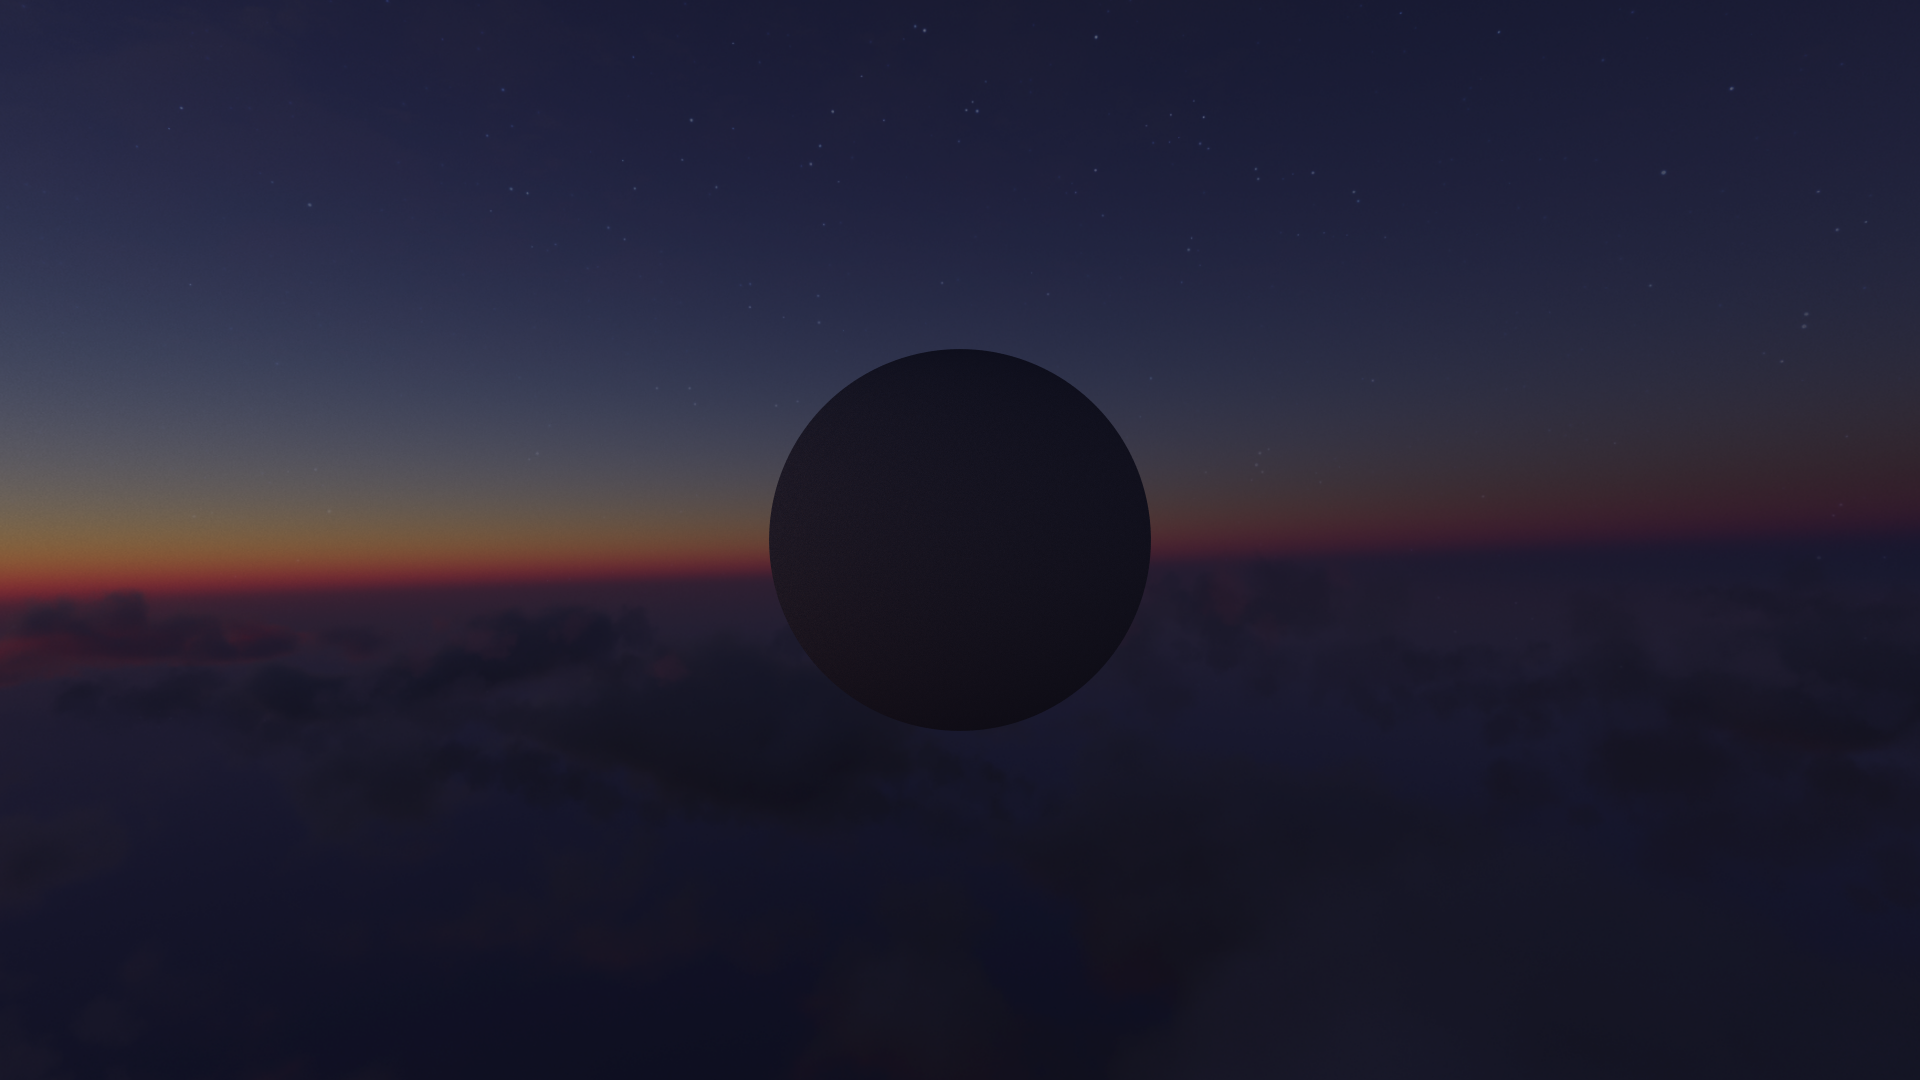
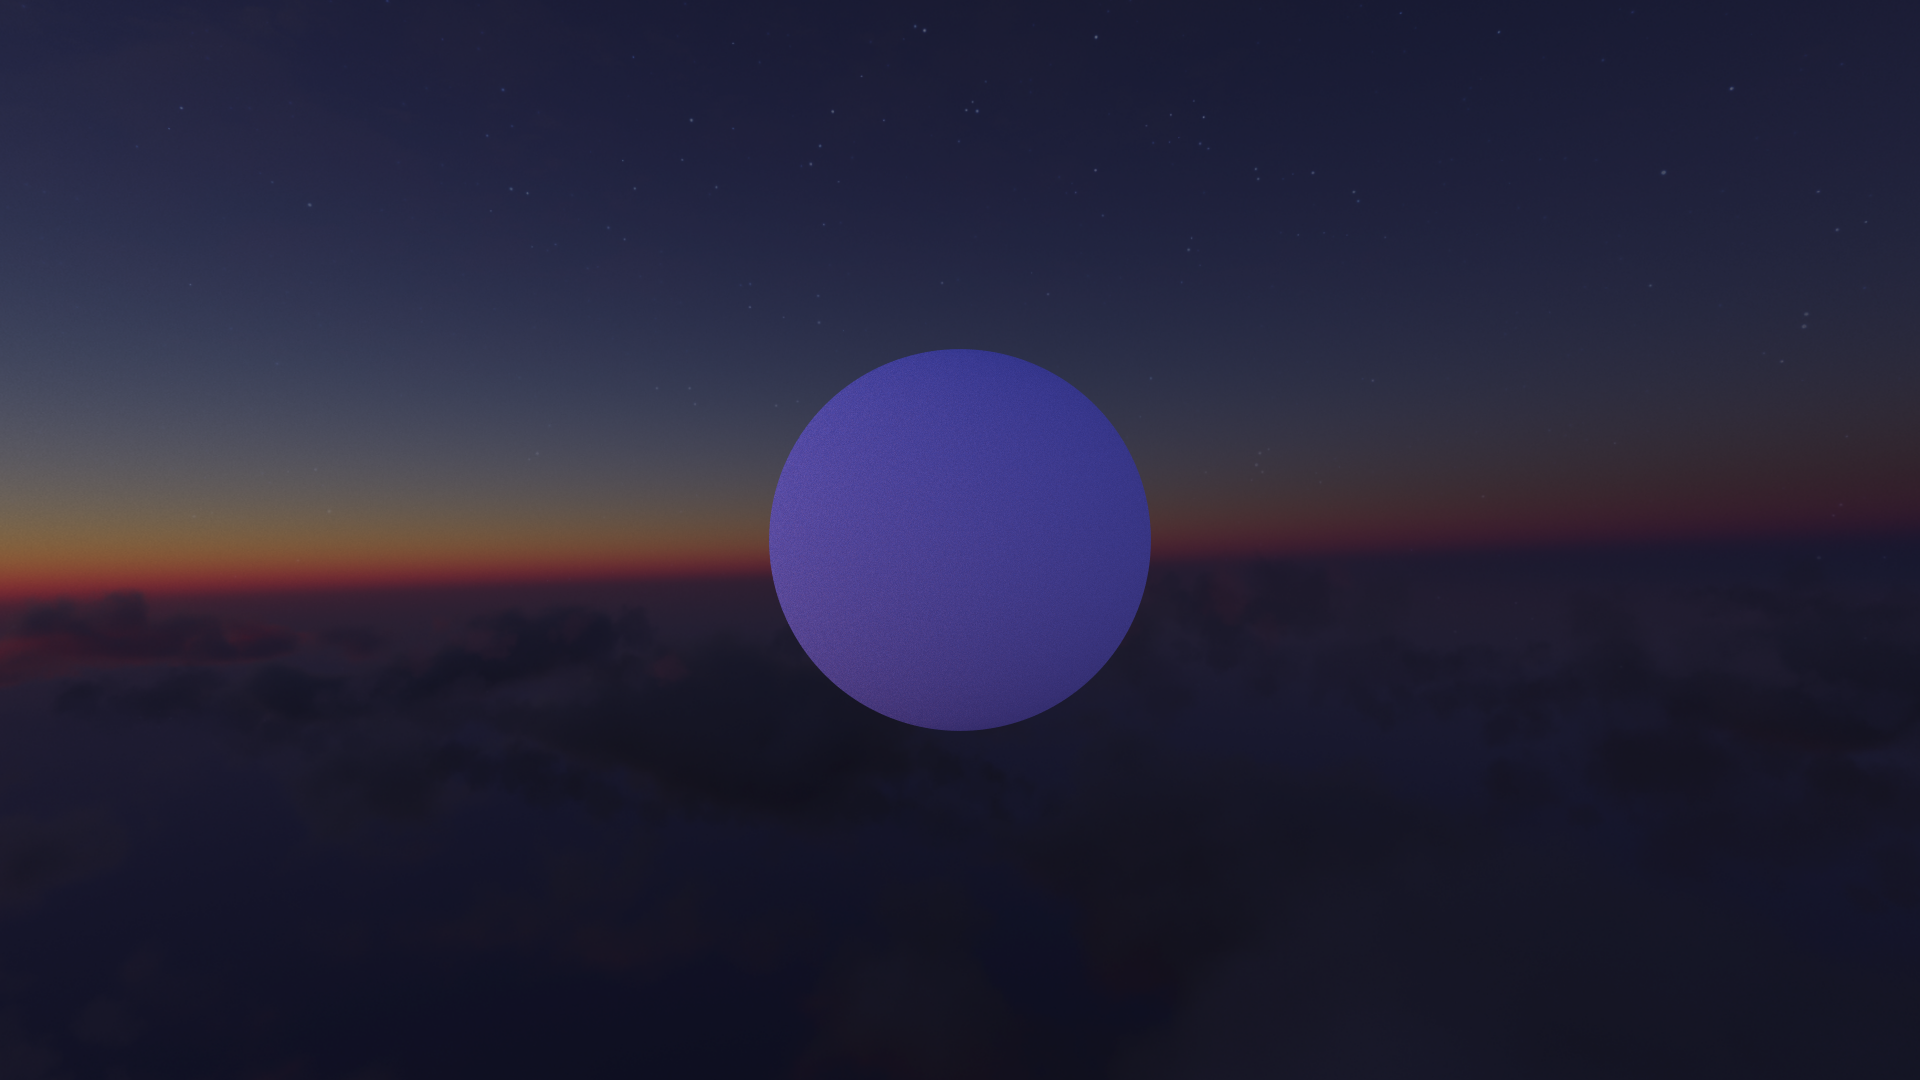
Fixed Enviornment Lighting and Texture Lighting. Add Skybox intensity option.

Changed region(s): [[0.375, 0.3056, 0.625, 0.6722]]

diff --git a/CPURayTracer/src/RayTracer.cpp b/CPURayTracer/src/RayTracer.cpp
@@ -92,10 +92,12 @@ Intersection RayTracer::FindIntersection(Scene* scene, const Ray& ray)
 }
 
 // Helper function for 'FindColor'
-vec3 ComputeColor(const vec3& direction, const vec3& normal, const vec3& halfvec, const vec3& color, const Material& material, const vec3& attenuation, const float intensity, const float distance)
+vec3 ComputeColor(const vec3& direction, const vec3& normal, const vec3& halfvec, const vec3& color, const Material& material, const vec2& uv, const vec3& attenuation, const float intensity, const float distance)
 {
 	float nDotL = dot(normal, direction);
 	vec3 lambert = material.diffuse * color * std::max(nDotL, 0.0f);
+	if (material.texture.HasImage())
+		lambert = material.texture.QueryTexture(uv.x, uv.y) * color * std::max(nDotL, 0.0f);
 
 	float nDotH = dot(normal, halfvec);
 	vec3 phong = material.specular * color * pow(std::max(nDotH, 0.0f), material.shininess);
@@ -119,8 +121,6 @@ vec3 RayTracer::FindColor(Scene* scene, const Intersection& intersection, int re
 	}
 
 	vec3 currentColor = intersection.material->ambient + intersection.material->emission;
-	if (intersection.material->texture.HasImage())
-		return intersection.material->texture.QueryTexture(intersection.uv.x, intersection.uv.y);
 
 	// Add color from the lights.
 	vec4 towardsRayOrigin = normalize(intersection.ray.GetPosition() - intersection.hitPos); // Vector to origin of ray cast. Needed for half vector.
@@ -136,7 +136,7 @@ vec3 RayTracer::FindColor(Scene* scene, const Intersection& intersection, int re
 			if (shadowIntersection.hitPos == vec4(FLT_MAX)) // Direction lights only have one check becuase they have no position.
 			{
 				vec4 half = normalize(direction + towardsRayOrigin); // The vector halfway between the ray origin and light.
-				currentColor += ComputeColor(direction, intersection.normal, half, directional->color, *intersection.material, Directional::attenuation, 1.0f, 0.0f);
+				currentColor += ComputeColor(direction, intersection.normal, half, directional->color, *intersection.material, intersection.uv, Directional::attenuation, 1.0f, 0.0f);
 			}
 		}
 		else if (Point* point = dynamic_cast<Point*>(light.get()))
@@ -151,7 +151,7 @@ vec3 RayTracer::FindColor(Scene* scene, const Intersection& intersection, int re
 			if (shadowIntersection.hitPos == vec4(FLT_MAX) || length(point->GetPosition() - shadowRay.GetPosition()) < length(shadowIntersection.hitPos - shadowRay.GetPosition()))
 			{
 				vec4 half = normalize(direction + towardsRayOrigin); // The vector halfway between the ray origin and light.
-				currentColor += ComputeColor(direction, intersection.normal, half, point->color, *intersection.material, point->attenuation, point->intensity, length(toLight));
+				currentColor += ComputeColor(direction, intersection.normal, half, point->color, *intersection.material, intersection.uv, point->attenuation, point->intensity, length(toLight));
 			}
 		}
 	}
@@ -178,13 +178,15 @@ vec3 RayTracer::FindColor(Scene* scene, const Intersection& intersection, int re
 
 		direction = normalize(direction.x * u + direction.y * v + direction.z * w);
 
+		float PDF = dot(w, direction) / pi;
+
 		// Don't add light color if there is an object blocking it's view of the light. (Shadows)
 		Ray shadowRay(intersection.hitPos + 0.001f * vec4(direction, 0.0f), direction); // Account for shadow acne.
 		Intersection shadowIntersection = FindIntersection(scene, shadowRay);
 		if (shadowIntersection.hitPos == vec4(FLT_MAX)) // Direction lights only have one check becuase they have no position.
 		{
 			vec4 half = normalize(vec4(direction, 0.0f) + towardsRayOrigin); // The vector halfway between the ray origin and light.
-			currentColor += ComputeColor(direction, intersection.normal, half, scene->skybox.Query(direction), *intersection.material, Directional::attenuation, 1.0f, 0.0f);
+			currentColor += ComputeColor(direction, intersection.normal, half, scene->skybox.Query(direction), *intersection.material, intersection.uv, Directional::attenuation, scene->skybox.intensity / PDF, 0.0f);
 		}
 	}
 

diff --git a/CPURayTracer/src/SceneBuilder.cpp b/CPURayTracer/src/SceneBuilder.cpp
@@ -484,11 +484,14 @@ std::shared_ptr<Scene> MyCustomSceneBuilder::BuildFromFile(const char* filename)
                 {
                     cmdParams >> currTextureFilepath;
                 }
-                else if (cmd == "skybox") 
+                else if (cmd == "skybox")  // filepath, inensity (optional)
                 {
                     m_options.UseSkyBox = true;
-                    std::string filepath; cmdParams >> filepath; cmdParams >> cmd;
+                    std::string filepath; cmdParams >> filepath;
                     scene->skybox = EnviornmentMap::Skybox(currImageFormat, filepath);
+                    float intensity; cmdParams >> intensity;
+                    if (!cmdParams.fail())
+                        scene->skybox.intensity = intensity;
                 }
                 else if (cmd == "translate") // Below are Transformations.
                 {

diff --git a/CPURayTracer/header/Lights.h b/CPURayTracer/header/Lights.h
@@ -21,7 +21,6 @@ protected:
 class Point : public Light 
 {
 public:
-	// Design choice to not use protected varibales for performance reasons.
 	float intensity = 1.0f;
 	vec3 attenuation = vec3(0, 0, 1); // Const, linear, quadratic.
 	Point(float x, float y, float z, float r, float g, float b) : Light(x, y, z, r, g, b) {}

diff --git a/CPURayTracer/header/Skybox.h b/CPURayTracer/header/Skybox.h
@@ -16,6 +16,7 @@ namespace EnviornmentMap
 		Skybox() {}
 		Skybox(FREE_IMAGE_FORMAT fif, std::string filepath);
 		vec3 Query(vec3 direction);
+		float intensity = 1.0f; // Allows manual adjustments.
 	private:
 		SkyboxType m_type = SkyboxType::Cube;
 		std::vector<Image> m_enviornmentTextures;
